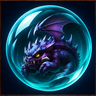
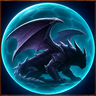
Bubble without the cartoon face; Classic's "Works from" line readable
The owner kept the new set but asked for Bubble without the cartoon face. The
creature in the sphere is now a dark side-view silhouette with wings and spikes
and no eyes or mouth (shots/art5/b1, option 2 of three painted in one Codex
call). On Classic the line "Works from Korath level N" under the rows and in
the unlock pop-ups was pale amber on cream; it is burnt orange there now
(about 5.6:1). Modern keeps its colour.

Also keeps neon's gem-framing advice for the next step (shots/art5/neon).

Claude-Session: https://claude.ai/code/session_01YTHpmyUXQ9QJ7a6iHTFaX9

diff --git a/web/src/ui/styles/crystals.css b/web/src/ui/styles/crystals.css
@@ -708,6 +708,13 @@
   outline-color: #5c3317;
 }
 
+/* "Works from Korath level N": Modern's pale amber vanished on Classic's cream (owner, 28 Nov 2026).
+   A burnt orange still reads as a hint, about 5.6:1 on the cream. */
+:root[data-skin="flash"] .crystal-abilities__note,
+:root[data-skin="flash"] .crystal-dialog__note {
+  color: #a34100;
+}
+
 /* A phone on its side: the list keeps every pixel; the description stays one line. */
 @media (max-height: 500px) {
   .crystal-abilities__inspector {

diff --git a/shots/art5/neon/neon-gem-r1.md b/shots/art5/neon/neon-gem-r1.md
@@ -1,0 +1,60 @@
+Here are three concrete gem-framing directions based on [ability-icons.png](file:///home/yujiesim/Coding/backyard-monsters-refitted/worktrees/hide-icon/shots/art5/neon/ability-icons.png), [mm-crystal.png](file:///home/yujiesim/Coding/backyard-monsters-refitted/worktrees/hide-icon/shots/art5/neon/mm-crystal.png), and the desktop, mobile, and unlock screenshots.
+
+---
+
+### 1. Top 3 Gem Directions
+
+#### Direction A: Socketed Octagon Cut ("Relic Bezel") *(evolves b + c)*
+* **Why:** Keeps nearly the full square painting readable while creating an unmistakable thematic split—loose shard = currency, socketed jewel = permanent power.
+* **Silhouette:** Regular 1:1 **chamfered octagon (emerald/cushion cut)** (~20–22% corner bevels) set inside a 2–3 px stepped metal bezel with four subtle corner claws/rivets.
+* **Art placement:** Scale the square art ~104% to crop off its existing thin bronze border and mask to the octagon. Leave the central ~72% completely clear ("flat gem table"); apply a 2 px dark inner recess shadow under the rim, an outer 14% angled bevel band tinted by the art's own edge colour (8 soft planes), and one crisp top-left glass specular tick (never crossing the subject).
+* **Bezel per look:**
+  * *Modern:* Dark forged gunmetal (`#232b34`–`#5e6c7a`) with tarnished bronze corner prongs (`#9c7a48`), echoing the riveted iron window frame in [abilities-modern.png](file:///home/yujiesim/Coding/backyard-monsters-refitted/worktrees/hide-icon/shots/art5/neon/abilities-modern.png).
+  * *Classic:* Burnished antique brass (`#3d2314` 1.5 px outer outline, `#a87632` bevel, `#e8c478` upper lip), bridging the dark paintings cleanly onto the cream slot in [abilities-classic.png](file:///home/yujiesim/Coding/backyard-monsters-refitted/worktrees/hide-icon/shots/art5/neon/abilities-classic.png).
+* **States:**
+  * *Locked:* **Dormant smoky obsidian**—desaturated dark slate/charcoal art at ~45% brightness (opaque, not 35% ghosted), a subtle matte diagonal clouding veil, dull bezel, zero specular glint.
+  * *Next:* **Awakening socket**—art at ~85% saturation with a violet-magenta inner bevel refraction (echoing the Monster Madness crystal about to be slotted) and a bright upper-left sheen; the slot's pink `Next` pill does the heavy CTA work.
+
+#### Direction B: Colour-Matched Hex Crystal ("Aspect Gem") *(evolves a)*
+* **Why:** Turns each ability into a distinct elemental stone whose glowing rim doubles as a quick colour cue.
+* **Silhouette:** **Broad flat-top hexagon** (1:1 box) with thick coloured crystal facets and no heavy metal socket.
+* **Art placement:** Hex mask over the painting; the outer ~18% acts as a translucent faceted crystal rim (6 planes) colour-matched to each icon's hue (crimson, emerald, amber, violet, etc.) with a faint glass vignette over the recessed painting and one sharp upper-left facet highlight.
+* **Rim per look:**
+  * *Modern:* Self-lit coloured crystal edge with a 1 px dark steel shadow (`#141a21`) and soft coloured glow onto the slate slot.
+  * *Classic:* Same coloured crystal wrapped in a **1.5 px dark umber outline (`#3a2112`)** plus subtle warm drop shadow so amber/gold/emerald edges don't wash out on cream.
+* **States:**
+  * *Locked:* **Opaque dull shale/quartz**—muted cold grey (Modern) or warm stone-taupe (Classic) matte hex with dimmed, clouded art inside and flat unlit facets.
+  * *Next:* Dimmed (~70%) art ringed by a glowing **magenta-pink energized facet edge** implying "ready to infuse."
+
+#### Direction C: Clawed Shield-Cut ("Champion Crest")
+* **Why:** Delivers the sharpest, most menacing monster-fantasy silhouette—especially strong at 52 px on [unlocked-modern.png](file:///home/yujiesim/Coding/backyard-monsters-refitted/worktrees/hide-icon/shots/art5/neon/unlocked-modern.png) and [unlocked-classic.png](file:///home/yujiesim/Coding/backyard-monsters-refitted/worktrees/hide-icon/shots/art5/neon/unlocked-classic.png).
+* **Silhouette:** Wide **pentagon/shield-cut gem** (flat chamfered top, vertical upper sides, tapered bottom point, ~1:1.06 ratio) gripped by a clawed metal setting.
+* **Art placement:** Shift painting up ~2 px so faces/fists stay in the wide upper 65%; 5 outer facet bevels frame an open center; cold-silver inner rim glint reinforces the paintings' existing silver lighting.
+* **Bezel per look:**
+  * *Modern:* Blackened steel with sharp top-corner fangs (`#1d242c` / `#7d8a96`).
+  * *Classic:* Iron-bound dark bronze (`#3d2415` outline, `#9e6b2b` face) matching the bone/claw frame corners.
+* **States:**
+  * *Locked:* **Petrified dark-iron core**—monochrome low-contrast art looking etched inside dull slate rock.
+  * *Next:* Darkened art behind a subtle violet-orange core shimmer matching the MM crystal's fiery center.
+
+---
+
+### 2. What Must Stay True at 26–30 px
+* **≥80% visible art area:** Several paintings rely on wide or corner-to-corner compositions (*Acid Spit*, *Twin Bite*, *Burn*, *Breath of Fire*) or bottom-anchored impacts (*Ground Slam*, *Fists of Doom*, *Healing Mist*). Aggressive cropping breaks them.
+* **Zero facet lines over the subject:** Keep a clean central "table" (~70% diameter). Put all facets strictly in the outer 12–16% bevel ring—no spiderweb/wireframe lines across the monster or flame.
+* **Max 6–8 outer bevel planes** with soft value shifts (no hard white outlines).
+* **One tight specular highlight:** Single 1.5–2 px white/silver glint on the upper-left bevel only; oversized glare turns 26 px icons into generic shiny marbles.
+* **Strip the existing bronze square border** before masking so no double-frame artifacts appear.
+
+---
+
+### 3. Verdict: Ship vs. Weakest
+* **Ship: Direction A (Socketed Octagon Cut).** It preserves ~86% of each square painting (saving *Acid Spit*, *Burn*, and *Breath of Fire*), fits a strict 1:1 bounding box, looks genuinely "embedded" rather than pasted on, and eliminates the harsh black-square look on [abilities-classic.png](file:///home/yujiesim/Coding/backyard-monsters-refitted/worktrees/hide-icon/shots/art5/neon/abilities-classic.png) and Drull's portrait in [unlocked-classic.png](file:///home/yujiesim/Coding/backyard-monsters-refitted/worktrees/hide-icon/shots/art5/neon/unlocked-classic.png). One shared bezel asset can also wrap all 12 icons cleanly via CSS/canvas overlay + mask.
+* **Weakest: Direction C (Shield-Cut)**—and even weaker would be an elongated `mm-crystal.png` shard. At 26 px in [phone-modern.png](file:///home/yujiesim/Coding/backyard-monsters-refitted/worktrees/hide-icon/shots/art5/neon/phone-modern.png), the tapered bottom clips the focal point of *Fists of Doom*, *Ground Slam*, and *Bloodthirst*, while clawed corners turn into visual noise.
+
+---
+
+### 4. Key Risks & Mitigations
+* **Currency confusion:** [phone-modern.png](file:///home/yujiesim/Coding/backyard-monsters-refitted/worktrees/hide-icon/shots/art5/neon/phone-modern.png) already shows *two* loose gems (the cyan/violet top-right currency diamond and the tilted magenta-orange `mm-crystal.png` right beside the slots). Avoid loose, tilted, pointed, or sparkled crystal silhouettes for abilities—grounding them in a horizontal metal socket (Direction A) guarantees instant separation.
+* **Classic cream contrast:** Frameless or translucent gems lose crispness on `#fdf4d3` / `#dfd0b2` cream slots. Always keep a crisp 1.5 px dark chocolate/bronze outer edge in Classic mode, and make Locked stones *opaque dark matte* instead of low-opacity grey.
+* **Tight mobile slot layout:** On [phone-classic.png](file:///home/yujiesim/Coding/backyard-monsters-refitted/worktrees/hide-icon/shots/art5/neon/phone-classic.png), the `Lv 4+` pill sits pixels away from the icon's left edge and two-line names ("Breath of / Fire") fill the bottom. Keep the gem strictly inside the existing 26–30 px square box (no tall crystal tips or wide protruding prongs).
